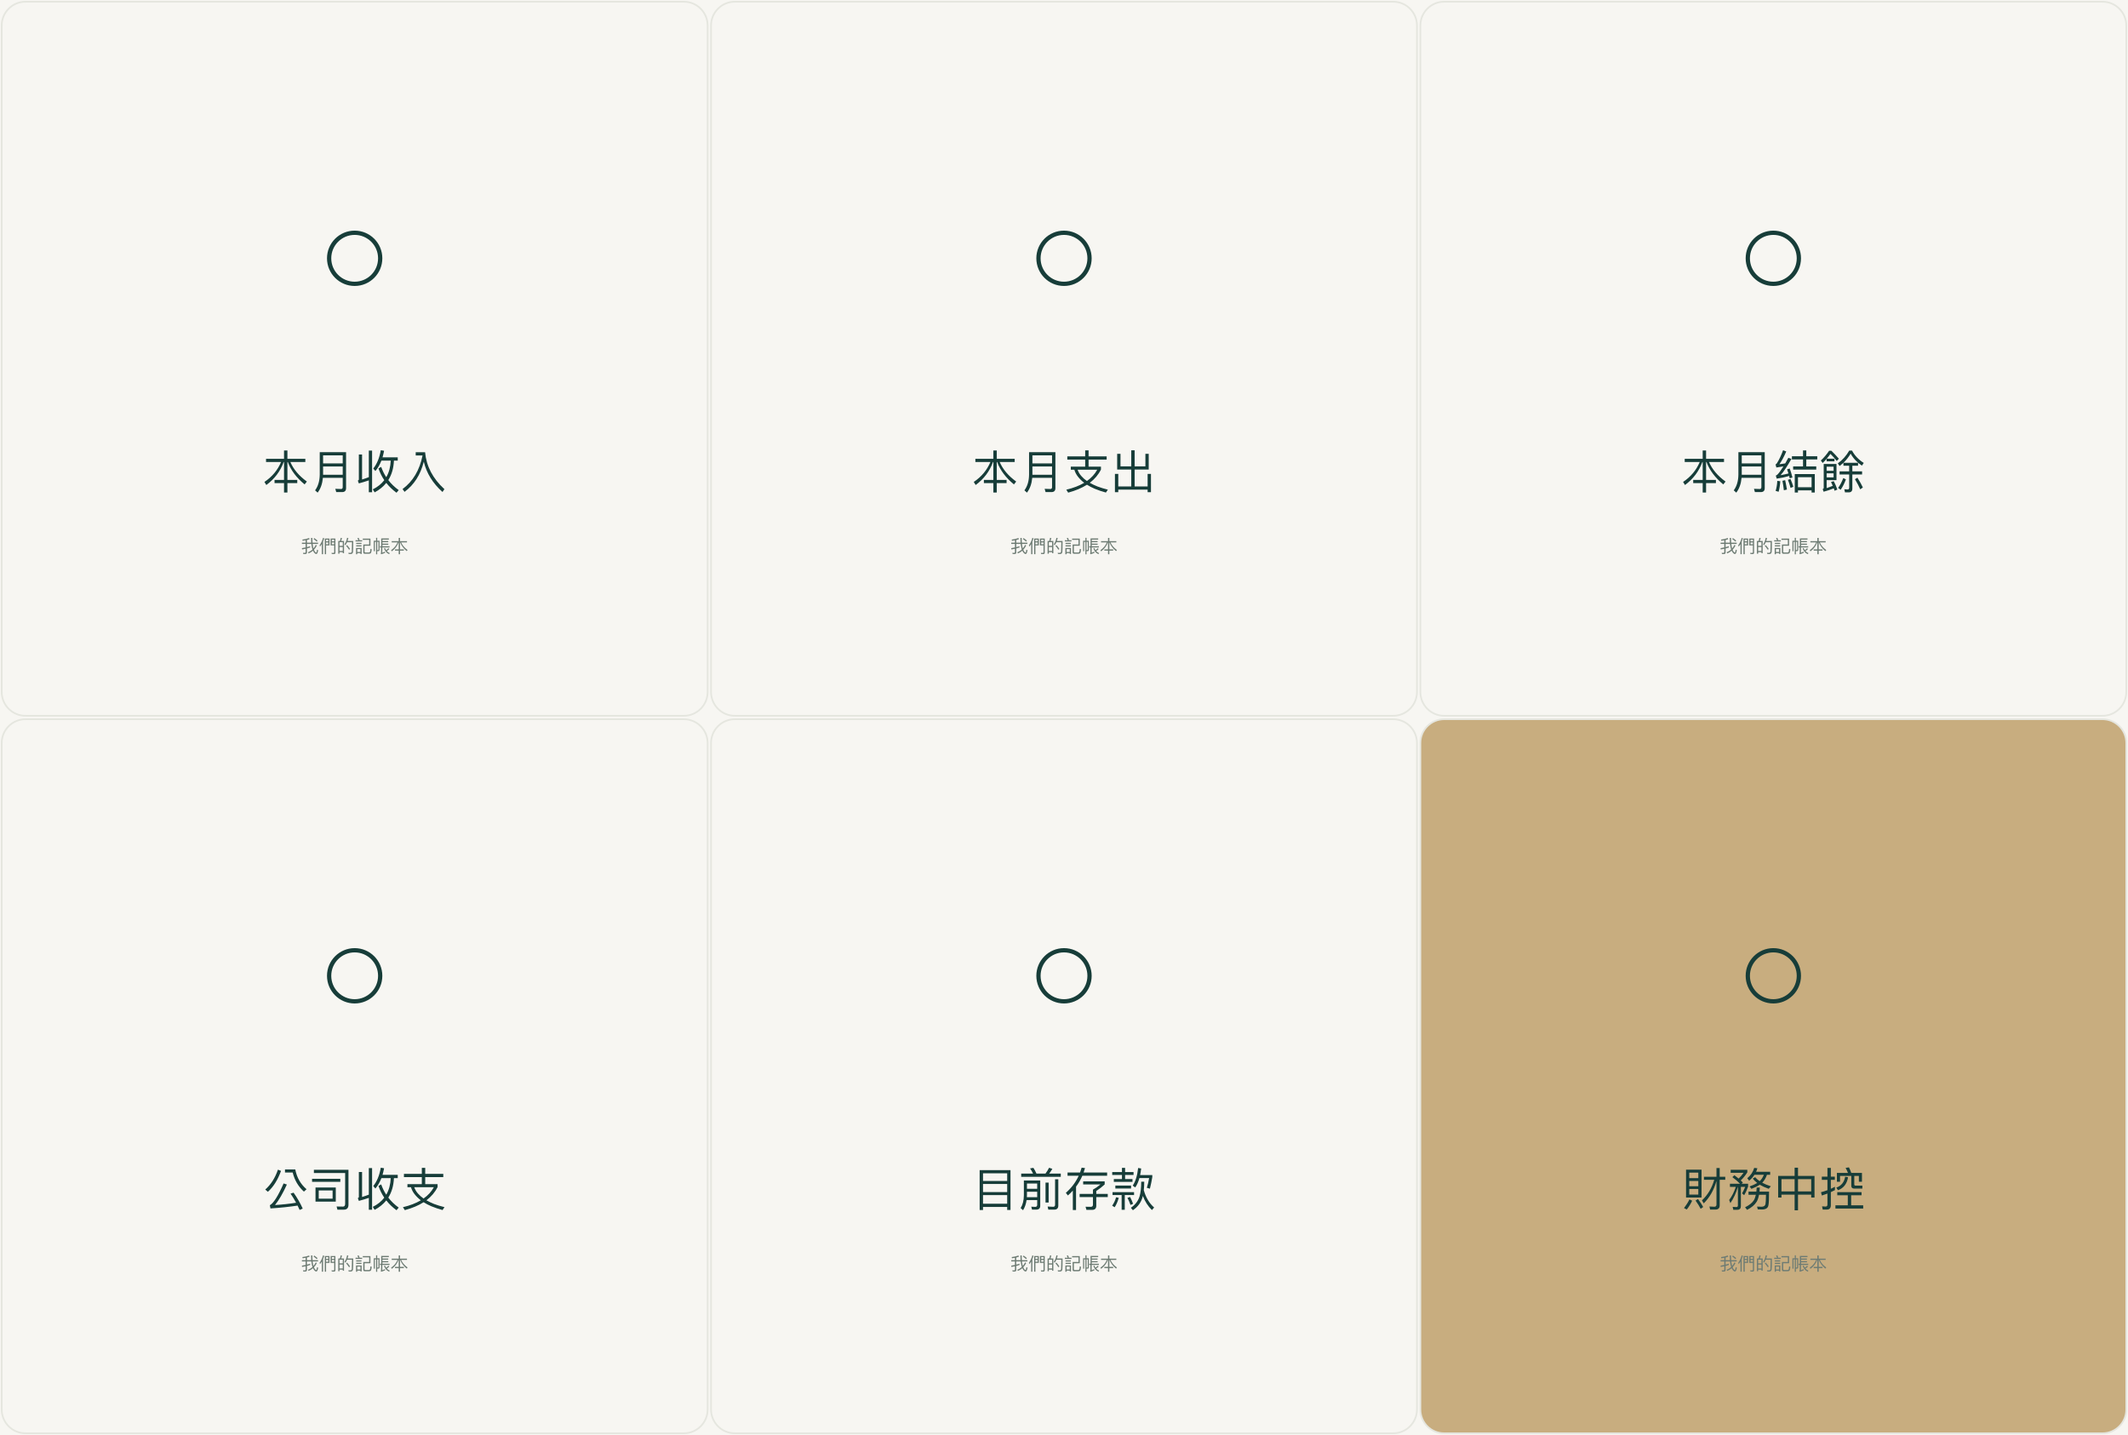
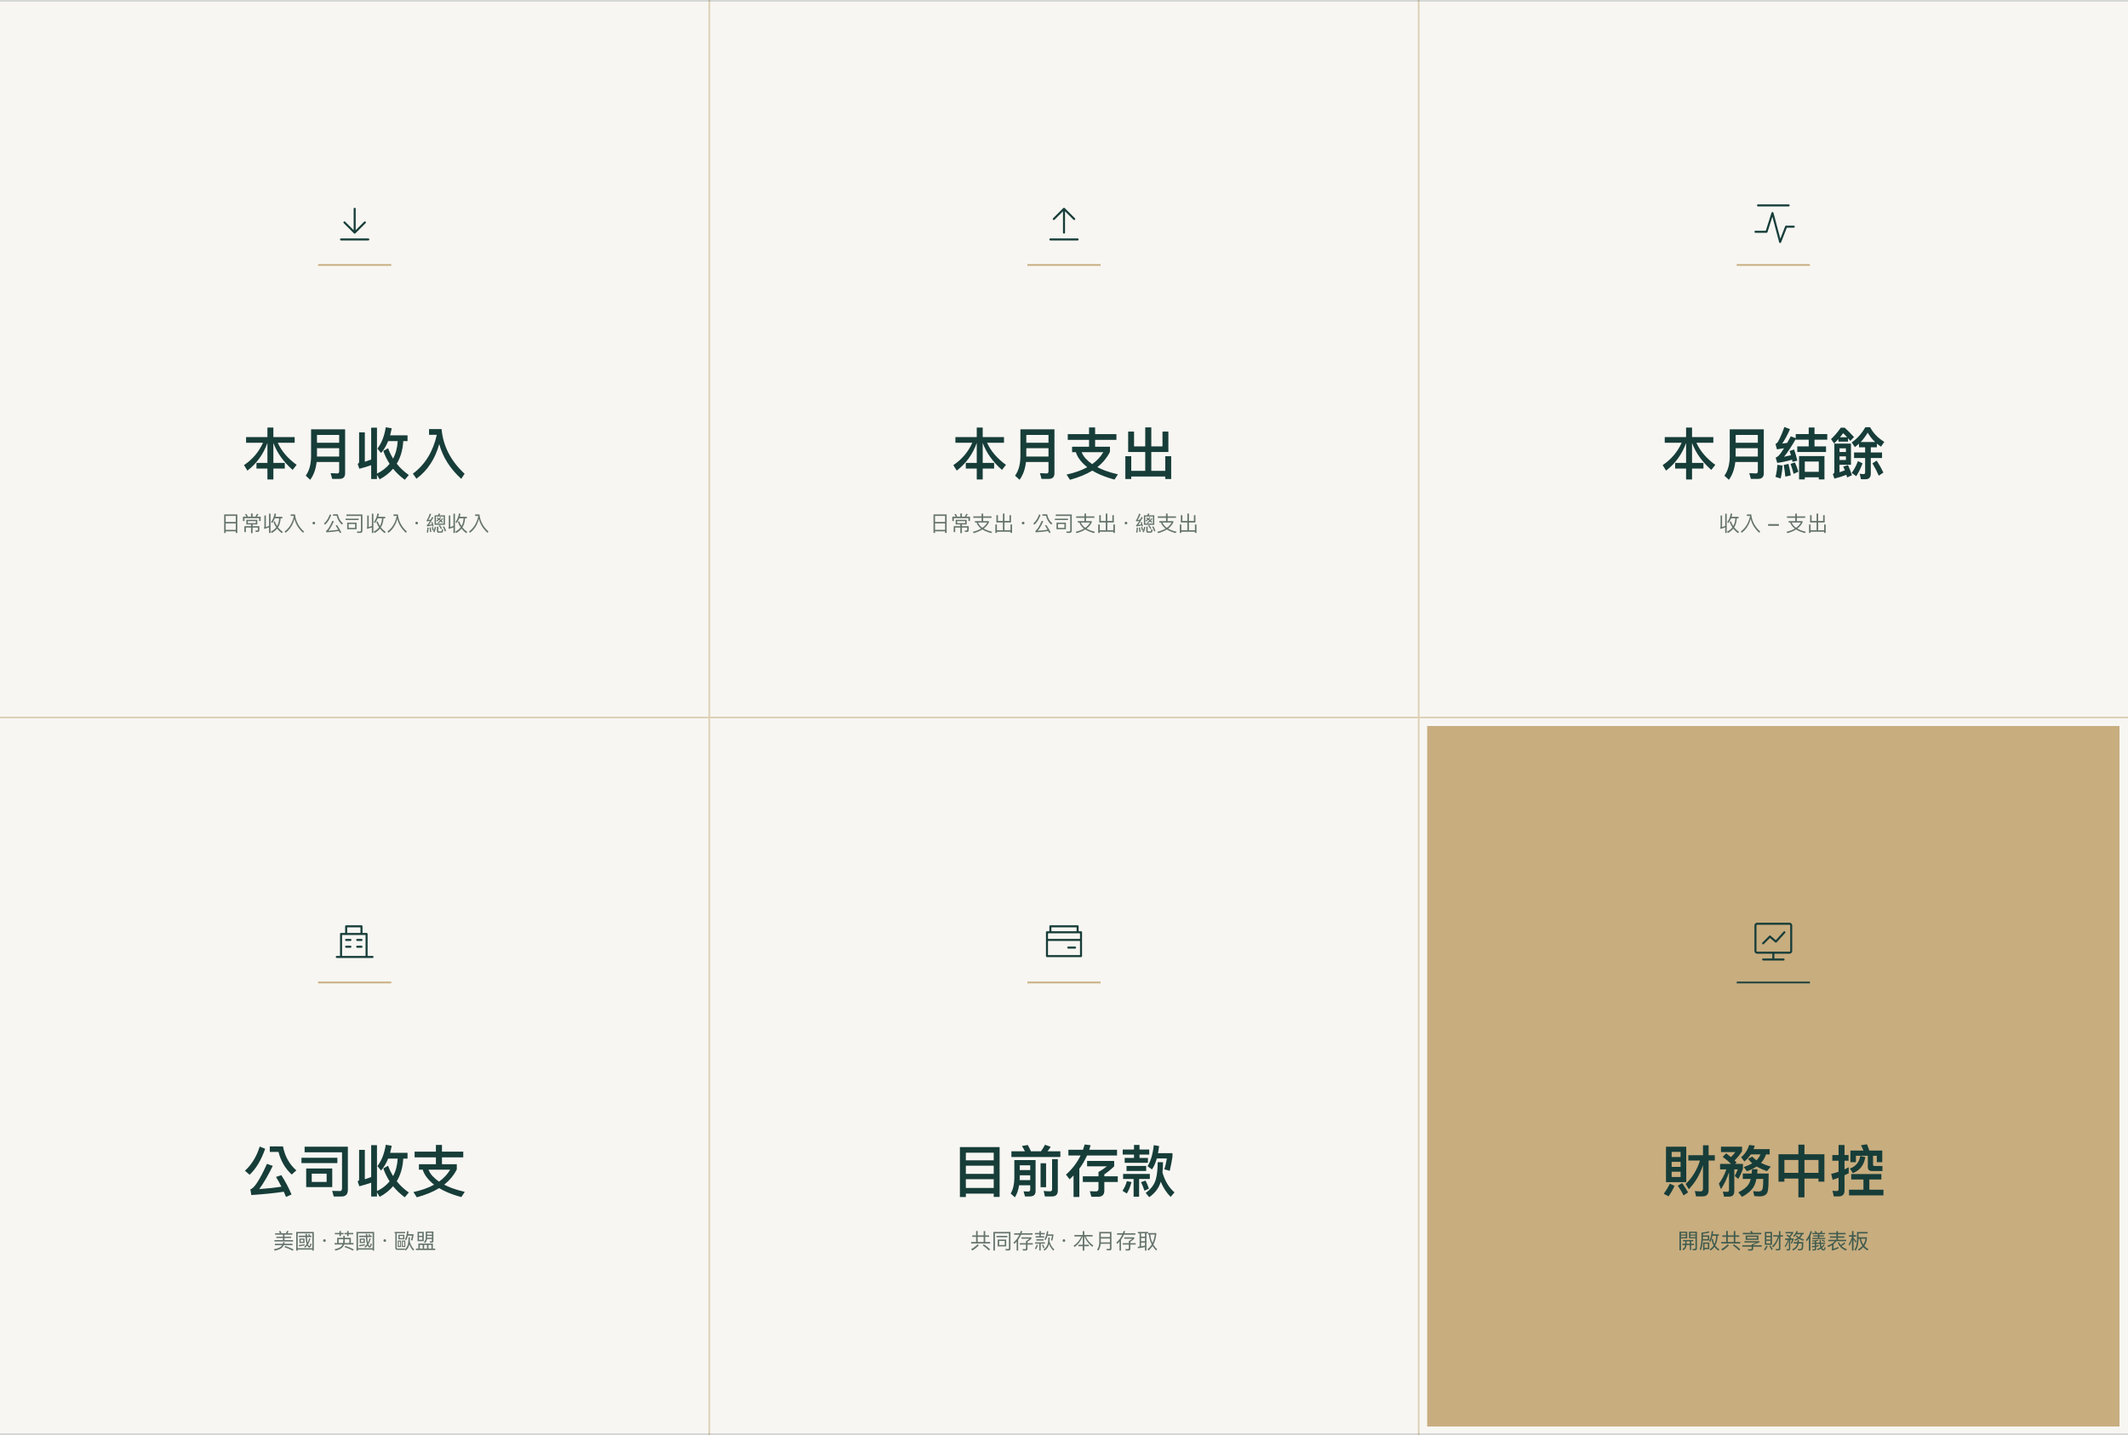
Polish LINE rich menu and fix dashboard link

diff --git a/components/FinanceApp.tsx b/components/FinanceApp.tsx
@@ -60,7 +60,7 @@ export default function FinanceApp({initialSession,development}:{initialSession:
 }
 function Transactions({rows,money,onEdit,onDelete}:{rows:any[];money:(n:number)=>string;onEdit:(v:any)=>void;onDelete:(v:any)=>void}){if(!rows.length)return null;return <div className="transaction-table"><div className="table-head"><span>交易內容</span><span>帳本／記帳人</span><span>日期</span><span>金額</span><span/></div>{rows.map(t=>{const saving=t.kind==='save', directionLabel=saving?(t.direction==='expense'?'存入':'取出'):t.direction==='income'?'收入':'支出';return <div className="transaction-row" key={t.id}><div className="transaction-identity"><span className="transaction-icon">{saving?<Wallet size={18}/>:t.ledger==='company'?<Building2 size={18}/>:t.direction==='income'?<ArrowDownLeft size={18}/>:<ArrowUpRight size={18}/>}</span><div><strong className="transaction-title"><span className={`transaction-direction ${saving?'saving':t.direction}`}>{directionLabel}</span><span>{t.category}</span></strong><small>{t.user.name} · {t.note}</small></div></div><div className="transaction-meta"><span>{t.ledger==='company'?`公司 · ${t.market}`:'日常'}{saving?' · 共同存款':''}</span><small>{t.user.name}</small></div><div className="transaction-date">{localDate(new Date(t.date)).replaceAll('-',' / ')}</div><div className={'transaction-amount '+(saving?'saving':t.direction==='income'?'positive':'negative')}><strong>{saving?(t.direction==='expense'?'+':'−'):t.direction==='income'?'+':'−'} {money(t.cny)}</strong>{(t.currency!=='CNY'||t.rateEstimated)&&<small>{t.currency} {Number(t.amount).toLocaleString()} {t.rateEstimated?'· 估算匯率':''}</small>}</div><div className="row-actions"><button className="icon-button" aria-label={`編輯${t.note}`} onClick={()=>onEdit(t)}><Pencil size={15}/></button><button className="icon-button" aria-label={`刪除${t.note}`} onClick={()=>onDelete(t)}><Trash2 size={15}/></button></div></div>})}</div>}
 function Empty({onAdd,filtered=false}:{onAdd:()=>void;filtered?:boolean}){return <div className="empty-transactions"><div className="empty-book"><BookOpen size={26}/></div><h3>{filtered?'沒有符合條件的交易':'本月尚無記帳紀錄'}</h3><p>{filtered?'試著調整篩選條件或搜尋關鍵字。':'從一頓午餐、一筆收入，開始記錄你們的生活。'}</p>{!filtered&&<button className="text-button" onClick={onAdd}>開始記帳 <ArrowRight size={15}/></button>}</div>}
-function RichMenu({onQuery}:{onQuery:(action:string)=>void}){return <div className="richmenu-buttons">{menuActions.map(a=><button key={a.id} onClick={()=>onQuery(a.id)}><a.icon size={29} strokeWidth={1.4}/><strong>{a.label}</strong></button>)}</div>}
+function RichMenu({onQuery}:{onQuery:(action:string)=>void}){const detail=['日常收入 · 公司收入 · 總收入','日常支出 · 公司支出 · 總支出','收入 − 支出','美國 · 英國 · 歐盟','共同存款 · 本月存取','開啟共享財務儀表板'];return <div className="richmenu-buttons" aria-label="LINE 六格快捷選單">{menuActions.map((a,i)=><button type="button" key={a.id} onClick={()=>onQuery(a.id)} aria-label={a.label}><a.icon size={34} strokeWidth={1.5}/><strong>{a.label}</strong><small>{detail[i]}</small></button>)}</div>}
 function ChatDrawer({onClose,onUpdate,user}:{onClose:()=>void;onUpdate:()=>void;user:string}){const [messages,setMessages]=useState<{from:string;text:string}[]>([{from:'bot',text:'你好，想記下哪一筆？\n你可以傳「午餐200」、「美區支出5000」，或直接點選下方查詢。'}]),[text,setText]=useState(''),[busy,setBusy]=useState(false);const query=async(action:string)=>{setMessages(m=>[...m,{from:'user',text:menuActions.find(a=>a.id===action)?.label||action}]);setBusy(true);try{const d=await api('/api/chat',{action});setMessages(m=>[...m,{from:'bot',text:d.reply}]);onUpdate()}catch(e){setMessages(m=>[...m,{from:'error',text:(e as Error).message}])}finally{setBusy(false)}};useEffect(()=>{const listener=(e:Event)=>query((e as CustomEvent).detail);window.addEventListener('duet-query',listener);return()=>window.removeEventListener('duet-query',listener)},[]);const send=async(e:React.FormEvent)=>{e.preventDefault();if(!text.trim()||busy)return;const value=text;setText('');setMessages(m=>[...m,{from:'user',text:value}]);setBusy(true);try{const d=await api('/api/chat',{text:value});setMessages(m=>[...m,{from:'bot',text:d.reply}]);onUpdate()}catch(e){setMessages(m=>[...m,{from:'error',text:(e as Error).message}])}finally{setBusy(false)}};
  return <motion.div className="drawer-backdrop" initial={{opacity:0}} animate={{opacity:1}} exit={{opacity:0}} onClick={onClose}><motion.section className="chat-drawer" role="dialog" aria-modal="true" aria-label="聊天記帳" initial={{x:60}} animate={{x:0}} exit={{x:60}} onClick={e=>e.stopPropagation()}><header><div><Brand compact/><strong>我們的記帳本</strong><small>{user} · 共享帳本</small></div><button className="icon-button" aria-label="關閉聊天" onClick={onClose}><X size={21}/></button></header><div className="chat-history" role="log" aria-live="polite">{messages.map((m,i)=><div key={i} className={`bubble ${m.from}`}>{m.text}</div>)}{busy&&<div className="bubble bot">正在處理…</div>}</div><RichMenu onQuery={a=>a==='dashboard'?onClose():!busy&&query(a)}/><form className="chat-compose" onSubmit={send}><input value={text} onChange={e=>setText(e.target.value)} aria-label="記帳訊息" placeholder="傳送一句話，記下這筆生活…" disabled={busy}/><button disabled={busy||!text.trim()} className="button primary" aria-label="傳送訊息"><Send size={18}/></button></form><small className="chat-caption">查詢不會新增帳目 · 存取款會同步更新共同存款</small></motion.section></motion.div>;
 }

diff --git a/scripts/generate-rich-menu.ts b/scripts/generate-rich-menu.ts
@@ -1,5 +1,32 @@
 import sharp from 'sharp';
+
 const W=2500,H=1686,cellW=W/3,cellH=H/2;
-const labels=['本月收入','本月支出','本月結餘','公司收支','目前存款','財務中控'];
-const svg=`<svg width="${W}" height="${H}" xmlns="http://www.w3.org/2000/svg"><rect width="100%" height="100%" fill="#F7F6F2"/>${labels.map((label,i)=>{const x=(i%3)*cellW,y=Math.floor(i/3)*cellH,fill=i===5?'#C8AD7F':'#F7F6F2';return `<rect x="${x+2}" y="${y+2}" width="${cellW-4}" height="${cellH-4}" rx="28" fill="${fill}" stroke="#E5E6DF" stroke-width="2"/><circle cx="${x+cellW/2}" cy="${y+cellH*.36}" r="30" fill="none" stroke="#173D39" stroke-width="5"/><text x="${x+cellW/2}" y="${y+cellH*.68}" fill="#173D39" font-family="Noto Sans TC, sans-serif" font-size="54" text-anchor="middle">${label}</text><text x="${x+cellW/2}" y="${y+cellH*.77}" fill="#6D7B73" font-family="Noto Sans TC, sans-serif" font-size="21" text-anchor="middle">我們的記帳本</text>`}).join('')}</svg>`;
-(async()=>{await sharp(Buffer.from(svg)).png().toFile('public/rich-menu.png');console.log('Generated public/rich-menu.png')})();
+const ink='#173D39',gold='#C8AD7F',cream='#F7F6F2',muted='#65736C';
+const actions=[
+ {title:'本月收入',detail:'日常收入 · 公司收入 · 總收入',icon:'<path d="M34 18v28m-12-12 12 12 12-12"/><path d="M18 54h32"/>'},
+ {title:'本月支出',detail:'日常支出 · 公司支出 · 總支出',icon:'<path d="M34 46V18m-12 12 12-12 12 12"/><path d="M18 54h32"/>'},
+ {title:'本月結餘',detail:'收入 − 支出',icon:'<path d="M13 45h13l7-22 9 34 7-18h9"/><path d="M16 14h36"/>'},
+ {title:'公司收支',detail:'美國 · 英國 · 歐盟',icon:'<path d="M13 54h42M18 54V27h30v27M24 27v-9h18v9M24 34h5m8 0h5M24 42h5m8 0h5"/>'},
+ {title:'目前存款',detail:'共同存款 · 本月存取',icon:'<path d="M14 25h40v28H14zM18 25v-7h32v7M14 34h40"/><path d="M39 43h8"/>'},
+ {title:'財務中控',detail:'開啟共享財務儀表板',icon:'<rect x="13" y="15" width="42" height="34" rx="2"/><path d="M22 57h24M34 49v8M22 38l8-8 7 6 10-11"/>'},
+];
+const tiles=actions.map((a,i)=>{
+ const x=(i%3)*cellW,y=Math.floor(i/3)*cellH,highlight=i===5;
+ const fg=ink,accent=highlight?ink:gold,detail=highlight?'#405B4E':muted;
+ const cx=x+cellW/2,iconY=y+cellH*.31;
+ return `${highlight?`<rect x="${x+10}" y="${y+10}" width="${cellW-20}" height="${cellH-20}" fill="${gold}"/>`:''}
+  <g transform="translate(${cx-34} ${iconY-34})" fill="none" stroke="${fg}" stroke-width="2.4" stroke-linecap="round" stroke-linejoin="round">${a.icon}</g>
+  <path d="M${cx-43} ${iconY+50}h86" stroke="${accent}" stroke-width="2"/>
+  <text x="${cx}" y="${y+cellH*.66}" fill="${fg}" font-family="Noto Sans TC, sans-serif" font-size="66" font-weight="600" text-anchor="middle">${a.title}</text>
+  <text x="${cx}" y="${y+cellH*.74}" fill="${detail}" font-family="Noto Sans TC, sans-serif" font-size="25" text-anchor="middle">${a.detail}</text>`;
+}).join('');
+const svg=`<svg width="${W}" height="${H}" viewBox="0 0 ${W} ${H}" xmlns="http://www.w3.org/2000/svg">
+ <rect width="${W}" height="${H}" fill="${cream}"/>${tiles}
+ <path d="M${cellW} 0v${H}M${cellW*2} 0v${H}M0 ${cellH}h${W}" stroke="${gold}" stroke-opacity=".52" stroke-width="2"/>
+ <path d="M0 1h${W}M0 ${H-1}h${W}" stroke="${ink}" stroke-opacity=".16" stroke-width="2"/>
+ </svg>`;
+
+(async()=>{
+ await sharp(Buffer.from(svg)).png({compressionLevel:9,palette:false}).toFile('public/rich-menu.png');
+ console.log('Generated public/rich-menu.png (2500 x 1686)');
+})();

diff --git a/scripts/deploy-rich-menu.ts b/scripts/deploy-rich-menu.ts
@@ -1,2 +1,5 @@
 import {readFile} from 'node:fs/promises';
-(async()=>{const token=process.env.LINE_CHANNEL_ACCESS_TOKEN,url=process.env.APP_URL||'http://localhost:3000';if(!token)throw new Error('LINE_CHANNEL_ACCESS_TOKEN 未設定');if(!/^https:\/\//.test(url))throw new Error('Rich Menu URI 需要 HTTPS APP_URL');const headers={Authorization:`Bearer ${token}`,'Content-Type':'application/json'};const names=['month_income','month_expense','month_balance','company','savings','dashboard'],labels=['本月收入','本月支出','本月結餘','公司收支','目前存款','財務中控'];const areas=Array.from({length:6},(_,i)=>({bounds:{x:(i%3)*833,y:Math.floor(i/3)*843,width:i%3===2?834:833,height:843},action:i===5?{type:'uri',uri:url}:{type:'postback',data:`action=${names[i]}`,displayText:labels[i]}}));const create=await fetch('https://api.line.me/v2/bot/richmenu',{method:'POST',headers,body:JSON.stringify({size:{width:2500,height:1686},selected:true,name:'Duet 六格財務快捷選單',chatBarText:'查看財務',areas})});if(!create.ok)throw new Error(await create.text());const {richMenuId}=await create.json();const image=await readFile('public/rich-menu.png');const upload=await fetch(`https://api-data.line.me/v2/bot/richmenu/${richMenuId}/content`,{method:'POST',headers:{Authorization:`Bearer ${token}`,'Content-Type':'image/png'},body:image});if(!upload.ok)throw new Error(await upload.text());const def=await fetch(`https://api.line.me/v2/bot/user/all/richmenu/${richMenuId}`,{method:'POST',headers:{Authorization:`Bearer ${token}`}});if(!def.ok)throw new Error(await def.text());console.log(`Rich Menu deployed: ${richMenuId}`);})().catch(e=>{console.error(e);process.exit(1)});
+
+const DASHBOARD_URL='https://duet-finance.onrender.com';
+
+(async()=>{const token=process.env.LINE_CHANNEL_ACCESS_TOKEN,url=process.env.RICH_MENU_URL||DASHBOARD_URL;if(!token)throw new Error('LINE_CHANNEL_ACCESS_TOKEN 未設定');if(!/^https:\/\//.test(url))throw new Error('Rich Menu URI 需要 HTTPS');const headers={Authorization:`Bearer ${token}`,'Content-Type':'application/json'};const names=['month_income','month_expense','month_balance','company','savings','dashboard'],labels=['本月收入','本月支出','本月結餘','公司收支','目前存款','財務中控'];const areas=Array.from({length:6},(_,i)=>({bounds:{x:(i%3)*833,y:Math.floor(i/3)*843,width:i%3===2?834:833,height:843},action:i===5?{type:'uri',uri:url}:{type:'postback',data:`action=${names[i]}`,displayText:labels[i]}}));const create=await fetch('https://api.line.me/v2/bot/richmenu',{method:'POST',headers,body:JSON.stringify({size:{width:2500,height:1686},selected:true,name:'我們的記帳本｜六格財務快捷選單',chatBarText:'查看財務',areas})});if(!create.ok)throw new Error(await create.text());const {richMenuId}=await create.json();const image=await readFile('public/rich-menu.png');const upload=await fetch(`https://api-data.line.me/v2/bot/richmenu/${richMenuId}/content`,{method:'POST',headers:{Authorization:`Bearer ${token}`,'Content-Type':'image/png'},body:image});if(!upload.ok)throw new Error(await upload.text());const def=await fetch(`https://api.line.me/v2/bot/user/all/richmenu/${richMenuId}`,{method:'POST',headers:{Authorization:`Bearer ${token}`}});if(!def.ok)throw new Error(await def.text());console.log(`Rich Menu deployed: ${richMenuId} → ${url}`);})().catch(e=>{console.error(e);process.exit(1)});

diff --git a/app/globals.css b/app/globals.css
@@ -43,3 +43,6 @@ html{-webkit-text-size-adjust:100%;text-size-adjust:100%}
 /* Transaction direction stays explicit in both desktop and compact rows. */
 .transaction-title{display:flex;align-items:center;gap:8px;flex-wrap:wrap}.transaction-direction{display:inline-flex;align-items:center;border-radius:4px;padding:3px 7px;font-size:10px;font-weight:600;line-height:1.2}.transaction-direction.expense{background:#f8e9e6;color:#a34339}.transaction-direction.income{background:#e5f1e8;color:#34734a}.transaction-direction.saving{background:#eee9dc;color:#77643b}.transaction-amount.negative strong{color:#a34339}.transaction-amount.saving strong{color:#77643b}
 @media(max-width:700px){.transaction-title{gap:6px}.transaction-direction{padding:3px 6px}.transaction-row{grid-template-columns:minmax(0,1fr) auto;gap:8px}.transaction-identity{min-width:0}.transaction-identity>div{min-width:0}.transaction-title>span:last-child{overflow-wrap:anywhere}.transaction-amount{text-align:right}.transaction-meta,.transaction-date{display:none}.row-actions{opacity:1;grid-column:2;grid-row:2}.transaction-amount{grid-column:2;grid-row:1}.transaction-amount strong{white-space:nowrap}}
+/* LINE menu preview: a quiet editorial grid with an intentional final action tile. */
+.richmenu-buttons{gap:0;background:var(--gold);border:1px solid rgba(23,61,57,.2);border-radius:14px;overflow:hidden;box-shadow:0 10px 28px rgba(23,61,57,.06)}.richmenu-buttons button{position:relative;min-height:152px;padding:23px 12px 18px;background:var(--cream);gap:8px;border:0;border-right:1px solid rgba(200,173,127,.65);border-bottom:1px solid rgba(200,173,127,.65);transition:background .2s,transform .2s}.richmenu-buttons button:nth-child(3n){border-right:0}.richmenu-buttons button:nth-child(n+4){border-bottom:0}.richmenu-buttons button:hover{background:#fff;transform:none}.richmenu-buttons button:last-child{background:var(--gold);color:var(--forest)}.richmenu-buttons button:last-child:hover{background:#d3bc92}.richmenu-buttons svg{color:var(--forest);margin-bottom:2px}.richmenu-buttons strong{font-size:15px;font-weight:600;letter-spacing:.03em}.richmenu-buttons small{font-size:10px;line-height:1.45;color:var(--muted);white-space:nowrap}.richmenu-buttons button:last-child small{color:#405b4e}.richmenu-buttons button::after{content:"";width:34px;height:2px;background:var(--gold);position:absolute;bottom:12px;left:50%;transform:translateX(-50%)}.richmenu-buttons button:last-child::after{background:var(--forest)}
+@media(max-width:900px){.richmenu-buttons button{min-height:132px;padding-inline:6px}.richmenu-buttons strong{font-size:13px}.richmenu-buttons small{font-size:9px;white-space:normal;text-align:center}.chat-drawer .richmenu-buttons button{min-height:76px;padding:7px 3px;gap:3px}.chat-drawer .richmenu-buttons svg{width:21px;height:21px;margin:0}.chat-drawer .richmenu-buttons strong{font-size:10px}.chat-drawer .richmenu-buttons small{display:none}.chat-drawer .richmenu-buttons button::after{bottom:5px;width:22px}}
